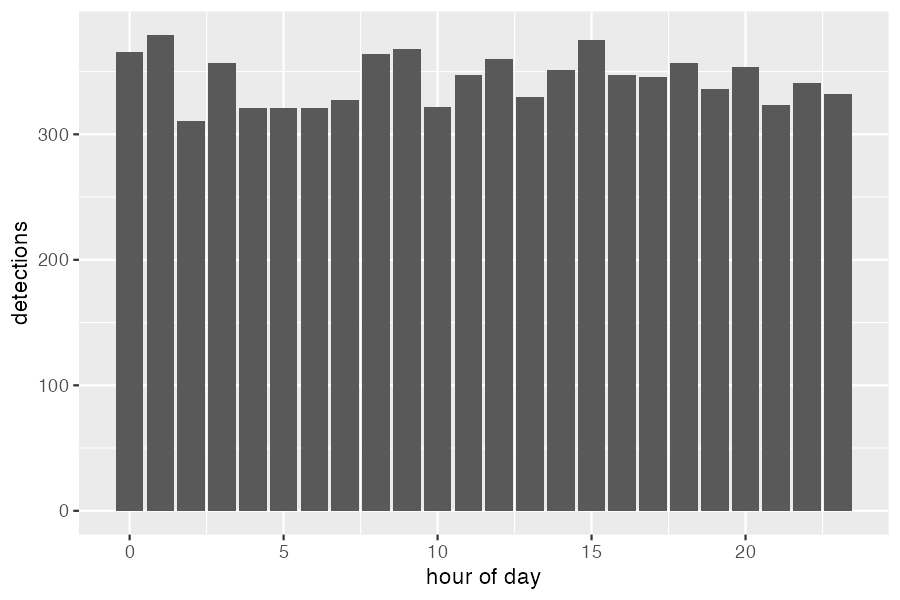
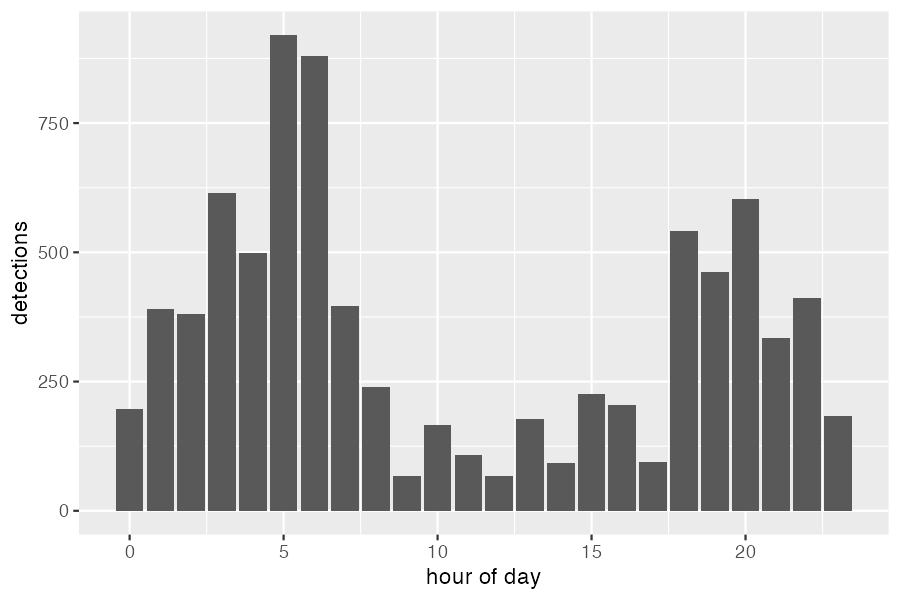
Exercise 03: make figure B noise that looks like a daily cycle
Uniform noise came out flat, so the model could call it noise at a glance.
Figure B is now random hourly rates shaped by two random sinusoids, with
peaks near dawn and dusk.

diff --git a/HANDOFF.md b/HANDOFF.md
@@ -314,8 +314,10 @@ the lesson for an audience new to AI.
 - `posit-request.md` question 1 (ellmer and AI Pass) no longer matters for the
   session.
 
-Open, for the dry run: figure B is near-flat (uniform noise), so the model may
-correctly call it patternless, and the exercise needs a figure that *looks*
-like a pattern. The recorder location (42.066 N, 70.2719 W, from Rob's deployment metadata)
+Figure B was first uniform noise, which came out flat and obviously noise.
+It is now random but shaped like a daily cycle (two random sinusoids plus
+gamma scatter, seed 2), with peaks near dawn and dusk, so it invites a
+crepuscular story. Part 3 now asks attendees to get "I can't tell from this
+figure alone" rather than "there is no pattern". The recorder location (42.066 N, 70.2719 W, from Rob's deployment metadata)
 is now in the data dictionary and in exercise 05 step 4.
 

diff --git a/DRY_RUN.md b/DRY_RUN.md
@@ -53,9 +53,9 @@ wrong. These notes become the exercise rewrites.
 ## 1b. Exercises 03 and 05, in the pane
 
 - [ ] **03:** follow `_exercises/03_stress-test/03_stress-test.md`. Can you
-      attach a PNG in the RStudio pane? Does figure B (near-flat noise) get a
-      confident interpretation, or does it say "no pattern" straight away? If
-      the latter, the exercise needs a noise figure that looks patterned.
+      attach a PNG in the RStudio pane? Figure B is random but has dawn and dusk
+      peaks. Does the model tell a crepuscular story about it? How hard is it
+      to get "I can't tell from this figure alone"?
 - [ ] **03:** did either chat read files or objects you didn't attach (the
       exercise file says which figure is real)?
 - [ ] **05:** with web search off, does the cold ask still look up

diff --git a/_exercises/03_stress-test/03_stress-test.md b/_exercises/03_stress-test/03_stress-test.md
@@ -24,7 +24,8 @@ Start **another new chat**, so it can't see the first conversation. Attach
 ## Part 3 — With your partner
 
 Try to get a confident, specific, wrong interpretation of figure B. Then try
-to get it to say "there is no pattern here". Which was easier?
+to get it to say "I can't tell from this figure alone whether that pattern is
+real". Which was easier?
 
 ## Note what happened
 
